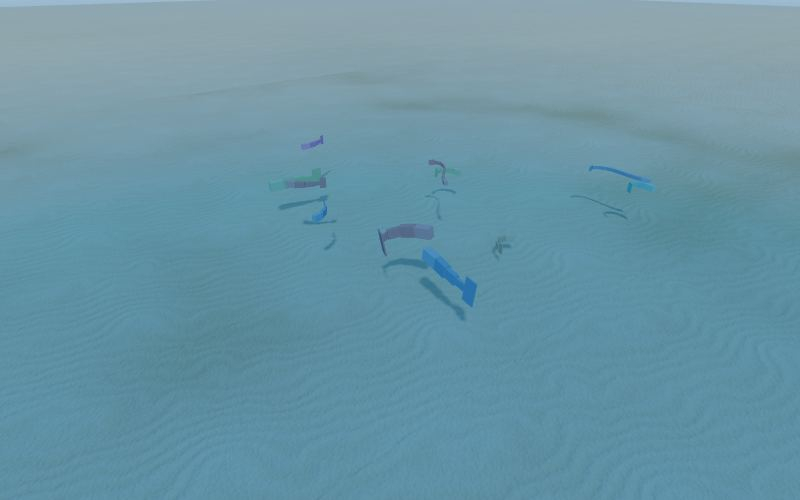
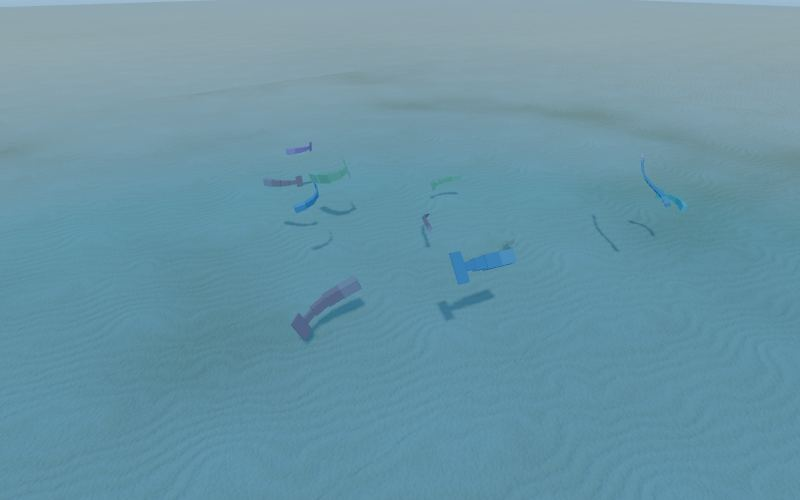
Swimmers tilt to rise and dive
A fish now pitches its nose up or down (a couple of torque spread over the body, like fins) toward a depth that drifts with time, and a roll couple keeps it upright; its own thrust then carries it up or down. Replaces the swim-bladder buoyancy trick. The no-drag test uses the centre of mass and minnows only.

Claude-Session: https://claude.ai/code/session_01Uuc6dwJ5Bjk5VjRCLHRDrp

diff --git a/examples/swimmers/swimmer.js b/examples/swimmers/swimmer.js
@@ -7,7 +7,7 @@
 //
 //   wave     each joint bends a little after the one in front of it; the swing grows toward the tail
 //   steer    bend the whole body one way and the fish turns that way
-//   depth    a fish rises and dives by changing how much it floats (a swim bladder), toward a depth that drifts slowly with time
+//   depth    a fish tilts its nose up or down to rise or dive, and its own thrust carries it that way, toward a depth that drifts slowly with time
 //   water    `data.water` says where the surface is (the picture reads it too, so there is one place to change it)
 //
 // Three kinds of fish share this code and differ only in their bodies (in the scene) and the few numbers below:
@@ -17,6 +17,7 @@
 // the wave at 0 (the body just waggles), or a current.
 const TURN_GAIN = 0.5 // radians of steady bend per unit of turn
 const FLOOR = 0.5 // how close to the bottom a fish dives, metres
+const MAX_PITCH = 0.55 // the steepest it tilts, radians
 const SURFACE = 0.7 // and how close to the surface it rises
 
 /** One kind of fish: how fast it beats its tail, how far its body swings, how many body curves it shows at once, and how far it dives. */
@@ -41,16 +42,41 @@ function fish({ beat, swing, curves, dive }) {
         targets[name] = ctx.gait.wave(self.cycle, { amplitude: p.amplitude * swing * (0.45 + along), phase: -(p.wave * curves) / joints.length * (i + 1), offset: turn * TURN_GAIN * along })
       })
 
-      // the depth this fish is after drifts between the bottom and the surface, a different way for each fish; a swim bladder gets it there
+      // the depth this fish is after drifts between the bottom and the surface, a different way for each fish; fins gets it there
       const low = FLOOR, high = water.level - SURFACE
       const mood = 0.5 + 0.5 * (0.6 * Math.sin(ctx.time * 0.11 + self.row * 1.9) + 0.4 * Math.sin(ctx.time * 0.047 + self.row * 0.7))
       const target = low + (high - low) * (0.5 + (mood - 0.5) * p.depthRange * dive)
-      const bladder = Math.max(-0.35, Math.min(0.35, 0.5 * (target - self.y) - 0.9 * self.vy)) // how much lighter (+) or heavier (-) than neutral
+      // tilt toward that depth: the nose goes up when the fish is below it and down when above, and a damping term stops it overshooting. The tilt
+      // is a pair of fins' worth of torque, spread over the whole body; the swimming thrust, now pointing a little up or down, does the rest.
+      const f = self.forward, flat = Math.hypot(f.x, f.z) || 1
+      const pitch = Math.asin(Math.max(-1, Math.min(1, f.y)))
+      const wanted = Math.max(-MAX_PITCH, Math.min(MAX_PITCH, 0.9 * (target - self.y) - 1.2 * self.vy))
+      const axis = [-f.z / flat, 0, f.x / flat] // sideways, so that turning about it lifts the nose
+      const parts = Object.values(self.parts)
+      const mass = parts.reduce((a, q) => a + q.mass, 0)
+      const length = parts.reduce((a, q) => a + q.size[0], 0)
+      const inertia = (mass * length * length) / 12 // roughly: a rod
+      const spin = parts[0].angularVelocity
+      const turning = spin.x * axis[0] + spin.z * axis[2]
+      const couple = 4 * inertia * (wanted - pitch) - 4 * inertia * turning // responds over about a second, without ringing
 
-      // what the water does to every part, this tick
+      // and keep upright: a fish that rolls onto its side is turned back (the axis that carries its up toward the world's up, kept to the roll about its own length)
+      const u = self.up
+      const rollError = u.x * f.z - u.z * f.x // (up x world up) . forward: positive when it has rolled one way, negative the other
+      const rolling = spin.x * f.x + spin.y * f.y + spin.z * f.z
+      const rollCouple = inertia * 0.15 * (6 * rollError - 3 * rolling)
+
+      // what the water does to every part, this tick, and the tilting couple added to it
       const forces = ctx.fluid.forces(self.parts, {
-        level: water.level, gravity: 9.81 * p.buoyancy * (1 + bladder), drag: p.drag, buoyancyHeight: 0.06, current: [p.current, 0, 0], dt: ctx.dt,
+        level: water.level, gravity: 9.81 * p.buoyancy, drag: p.drag, buoyancyHeight: 0.03, current: [p.current, 0, 0], dt: ctx.dt,
       })
+      for (const [name, q] of Object.entries(self.parts)) {
+        const share = (couple * q.mass) / mass
+        const roll = (rollCouple * q.mass) / mass
+        forces[name].torque[0] += share * axis[0] + roll * f.x
+        forces[name].torque[1] += roll * f.y
+        forces[name].torque[2] += share * axis[2] + roll * f.z
+      }
 
       return {
         joints: targets,

diff --git a/packages/core/test/swimmers.test.ts b/packages/core/test/swimmers.test.ts
@@ -7,18 +7,25 @@ import { Sim, parseScene, type ScriptModule } from '../src/index'
 const load = async (params: Record<string, number> = {}) => {
   const p = parseScene(readFileSync(new URL('../../../examples/swimmers/scene.json', import.meta.url), 'utf8'))
   assert.ok(p.ok, p.ok ? '' : p.errors.join('\n'))
-  for (const [k, v] of Object.entries(params)) (p.scene.params[k] as { value: number }).value = v
   for (const k of ['minnows', 'tuna', 'eels']) (p.scene.params[k] as { value: number }).value = 2
+  for (const [k, v] of Object.entries(params)) (p.scene.params[k] as { value: number }).value = v
   const script = (await import(pathToFileURL(new URL('../../../examples/swimmers/swimmer.js', import.meta.url).pathname).href)) as ScriptModule
   return Sim.create(p.scene, script)
 }
 const run = async (params: Record<string, number>, ticks = 900) => {
   const sim = await load(params)
-  const at = () => sim.worlds.flatMap((w) => (w as unknown as { handles: { x: number; z: number }[] }).handles.map((h) => [h.x, h.z]))
+  // where each fish's centre of mass is (the head alone swings about as the body bends and tilts)
+  const at = () => sim.worlds.flatMap((w) => {
+    const world = w as unknown as { handles: unknown[]; partStates(row: number): Record<string, { mass: number; position: { x: number; z: number } }> }
+    return world.handles.map((_, row) => {
+      const parts = Object.values(world.partStates(row)), mass = parts.reduce((a, q) => a + q.mass, 0)
+      return [parts.reduce((a, q) => a + q.mass * q.position.x, 0) / mass, parts.reduce((a, q) => a + q.mass * q.position.z, 0) / mass]
+    })
+  })
   const start = at()
   for (let t = 0; t < ticks; t++) sim.step()
   assert.deepEqual(sim.takeErrors(), [])
-  // net progress, not path length: a waggling head covers ground without going anywhere
+  // net progress of the centre of mass, not path length: a waggling head covers ground without going anywhere
   const moved = at().map((e, i) => Math.hypot(e[0] - start[i][0], e[1] - start[i][1])).reduce((a, b) => a + b, 0) / start.length
   const m: Record<string, number> = { ...sim.metrics(), moved }
   const hash = sim.hash()
@@ -27,14 +34,16 @@ const run = async (params: Record<string, number>, ticks = 900) => {
 }
 
 test('the bending wave swims the fish forward through water, and with no drag the same wave goes nowhere', async () => {
-  const water = await run({})
-  const none = await run({ drag: 0 })
-  assert.ok(water.moved > 3, `swam ${water.moved.toFixed(1)} m`)
-  assert.ok(none.moved < water.moved / 3, `without drag ${none.moved.toFixed(1)} m vs ${water.moved.toFixed(1)} m`)
+  // (at one fixed depth, so nothing touches the floor: a fish that scrapes along the bottom can push off it)
+  const minnows = { depthRange: 0, minnows: 4, tuna: 0, eels: 0 }
+  const water = await run(minnows)
+  const none = await run({ ...minnows, drag: 0 })
+  assert.ok(water.moved > 2, `swam ${water.moved.toFixed(1)} m`)
+  assert.ok(none.moved < water.moved / 2, `without drag ${none.moved.toFixed(1)} m vs ${water.moved.toFixed(1)} m`)
 })
 
-test('neutral fish hang in the water, ones too heavy for their swim bladders sink, and a run repeats exactly', async () => {
-  const neutral = await run({}), sinking = await run({ buoyancy: 0.6 })
+test('neutral fish hang in the water, fish that are too heavy sink, and a run repeats exactly', async () => {
+  const neutral = await run({}), sinking = await run({ buoyancy: 0.85 })
   assert.ok(neutral.depth > 1 && neutral.depth < 2.5, `neutral fish at ${neutral.depth.toFixed(2)} m`)
   assert.ok(sinking.depth < neutral.depth - 0.5, `sinking fish at ${sinking.depth.toFixed(2)} m`)
   assert.equal((await run({})).hash, neutral.hash)

diff --git a/examples/swimmers/about.md b/examples/swimmers/about.md
@@ -1,6 +1,6 @@
 Fish that swim by bending, in water the physics engine knows nothing about. The engine can push things, so the script works out what water would do to each part of a fish and pushes: **buoyancy** while a part is under the surface, and **drag**, much stronger across a flat part than along it. That is a few lines of the standard library's `Fluid`.
 
-Nothing pushes a fish forward. It bends in a wave from head to tail; each segment pushes water back as it swings, and the water pushes it on. A broad tail pushes more. There are three kinds: quick **minnows**, **tuna** with big tails, and long **eels**. A fish rises and dives by changing how much it floats, like a swim bladder.
+Nothing pushes a fish forward. It bends in a wave from head to tail; each segment pushes water back as it swings, and the water pushes it on. A broad tail pushes more. There are three kinds: quick **minnows**, **tuna** with big tails, and long **eels**. A fish rises and dives by tilting its nose up or down (a couple of torque, like fins) so its own thrust carries it that way.
 
 ### What to try
 - **drag** at 0: the fish waggle in place.
